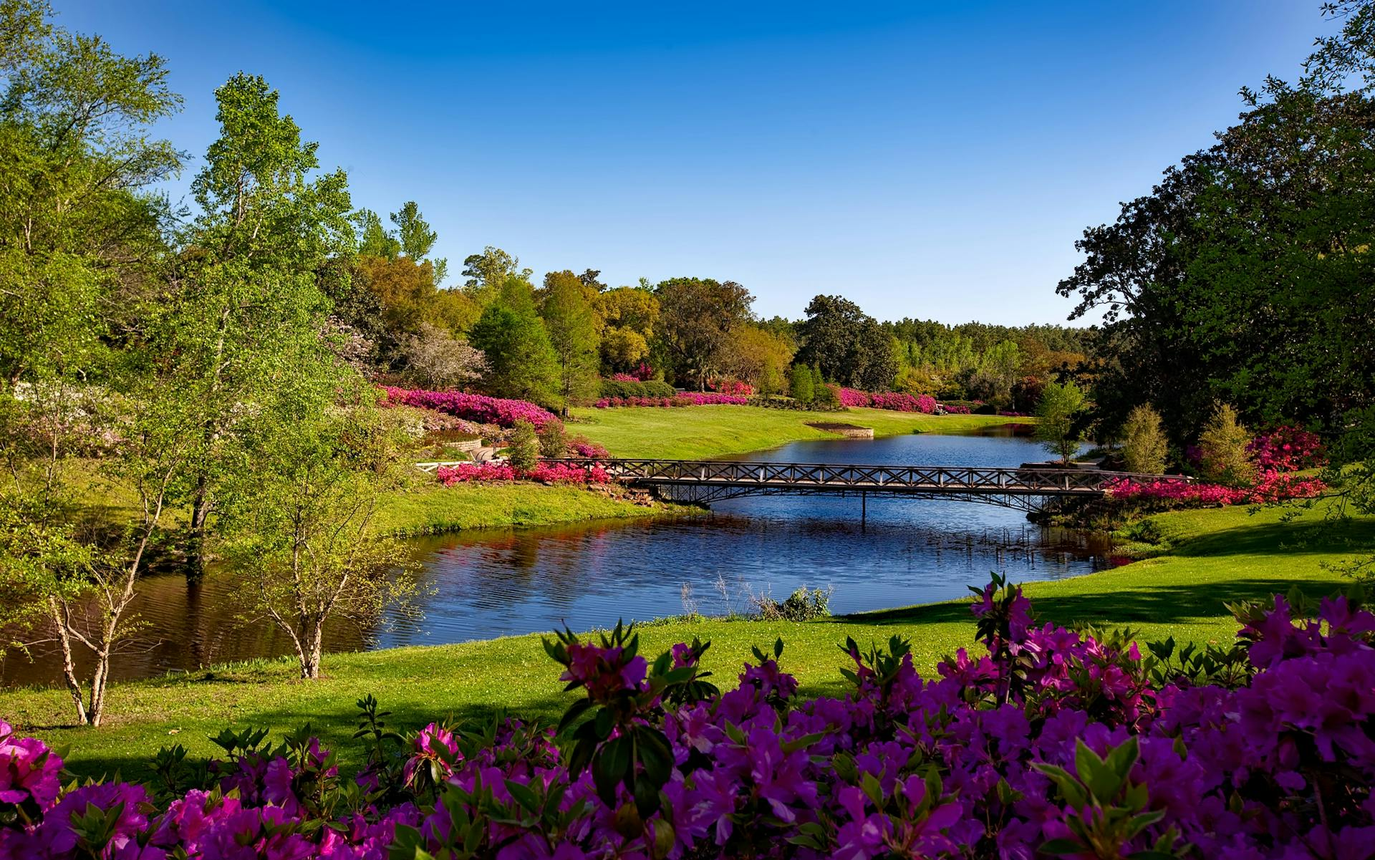
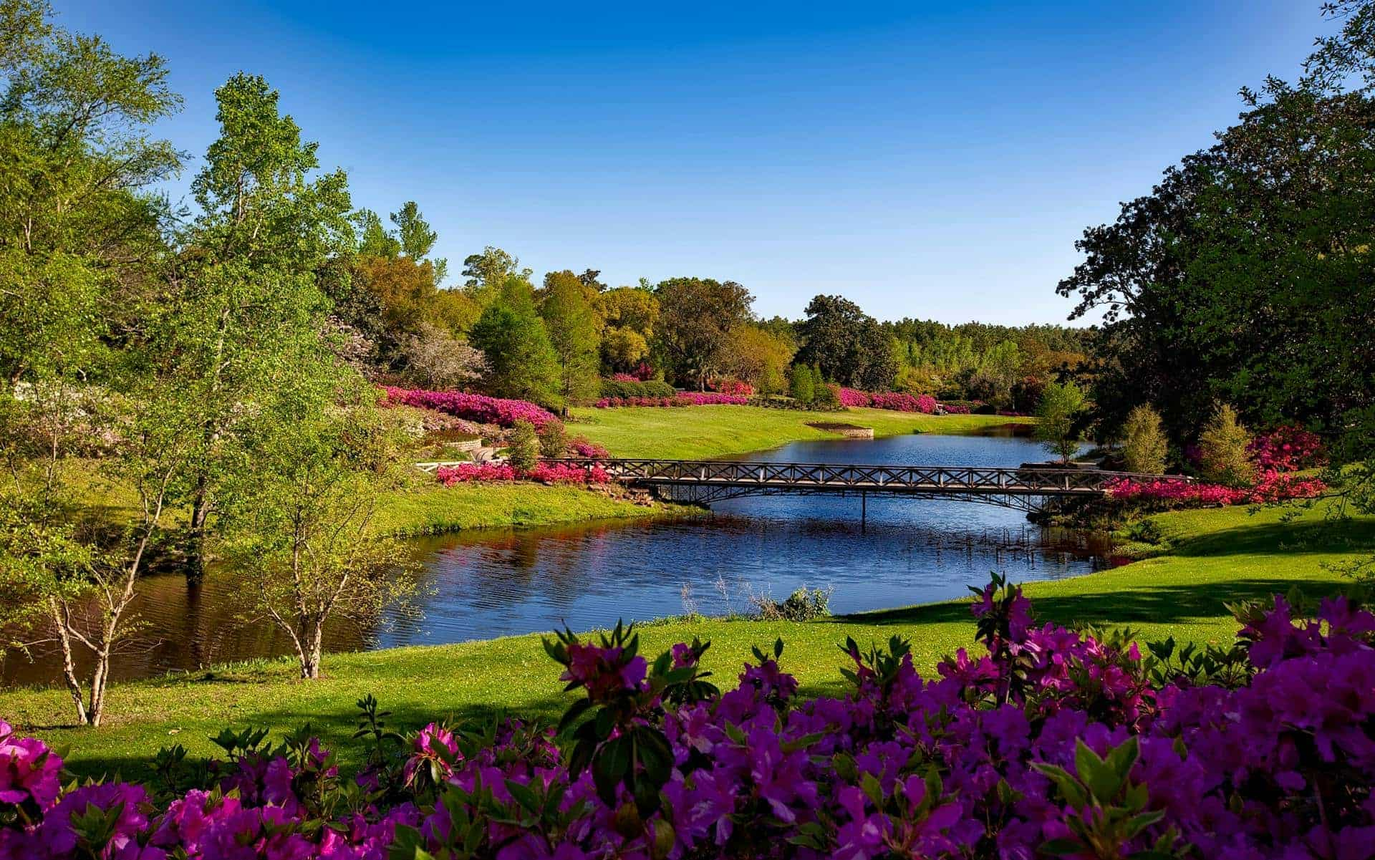
lazy loading and UX

diff --git a/templates/index.html b/templates/index.html
@@ -16,7 +16,7 @@
     <nav>
     <div id="navigation" class="navigation">
         <div class="img-box">
-        <a href="{{ url_for('index') }}"><img class="logo" src="{{ url_for('static', filename='Logo.png') }}"></a>
+        <a href="{{ url_for('index') }}"><img class="logo" loading="lazy" src="{{ url_for('static', filename='Logo.png') }}"></a>
         </div>
 
         <div id="nav" class="nav-list">
@@ -51,7 +51,7 @@
 
     <!--FIXED BOXES-->
     <div class="whatsapp-logo-box">
-        <a href="#"><img class="ws" src="{{ url_for('static', filename='ws.png') }}" alt="Whatsapp"></a>
+        <a href="#"><img class="ws" loading="lazy" src="{{ url_for('static', filename='ws.png') }}" alt="Whatsapp"></a>
     </div>
 
      <div class="nav-h1-box">
@@ -98,7 +98,7 @@ Un'alternativa innovativa e sostenibile ai cimiteri tradizionali, dove la memori
     <div class="concept-section-grid-3col">
         
         <div class="concept-box-1">
-        <img class="box-img" src="{{ url_for('static', filename='box-first.jpg') }}" alt="flores">
+        <img class="box-img" loading="lazy" src="{{ url_for('static', filename='box-first.jpg') }}" alt="flores">
         <h1 class="box-h1">Parchi <br>commemorativi</h1>
         <p class="box-p"> 
             Spazi naturali dedicati alla memoria, 
@@ -108,7 +108,7 @@ Un'alternativa innovativa e sostenibile ai cimiteri tradizionali, dove la memori
         </div>
 
          <div class="concept-box-2">
-        <img class="box-img" src="{{ url_for('static', filename='box-second.jpg') }}" alt="flores">
+        <img class="box-img" loading="lazy" src="{{ url_for('static', filename='box-second.jpg') }}" alt="flores">
         <h1 class="box-h1">Targhe <br> personalizzate</h1>
         <p class="box-p">
             Ricordi tangibili con foto,
@@ -118,7 +118,7 @@ Un'alternativa innovativa e sostenibile ai cimiteri tradizionali, dove la memori
         </div>
 
          <div class="concept-box-3">
-        <img class="box-img" src="{{ url_for('static', filename='box-third.jpg') }}" alt="flores">
+        <img class="box-img" loading="lazy" src="{{ url_for('static', filename='box-third.jpg') }}" alt="flores">
         <h1 class="box-h1">Buona <br> Sostenibilità</h1>
         <p class="box-p">
            Un approccio ecologico che 
@@ -132,7 +132,7 @@ Un'alternativa innovativa e sostenibile ai cimiteri tradizionali, dove la memori
 
    <div class="concept-grid-box">
       <div class="concept-img-box">
-        <img class="concept-img" src="static/concept-image.jpg" alt="tree">
+        <img class="concept-img" loading="lazy" src="static/concept-image.jpg" alt="tree">
       </div>
 
       <div>
@@ -647,6 +647,6 @@ Un'alternativa innovativa e sostenibile ai cimiteri tradizionali, dove la memori
 </div>
 
 
-    <script src="{{ url_for('static', filename='script.js') }}"></script>
+    <script src="{{ url_for('static', filename='script.js') }}" defer></script>
 </body>
 </html>

diff --git a/static/style.css b/static/style.css
@@ -29,7 +29,7 @@ nav{
     position: relative;
     height: 100vh;
     width: 100%;
-    background: linear-gradient(to right, rgba(23,23,23,0.3), rgba(23,23,23,0.4)),url(principal.jpg);
+    background: linear-gradient(to right, rgba(23,23,23,0.3), rgba(23,23,23,0.4)),url(principal.webp);
     background-position: center;
     background-size: cover; 
 }
